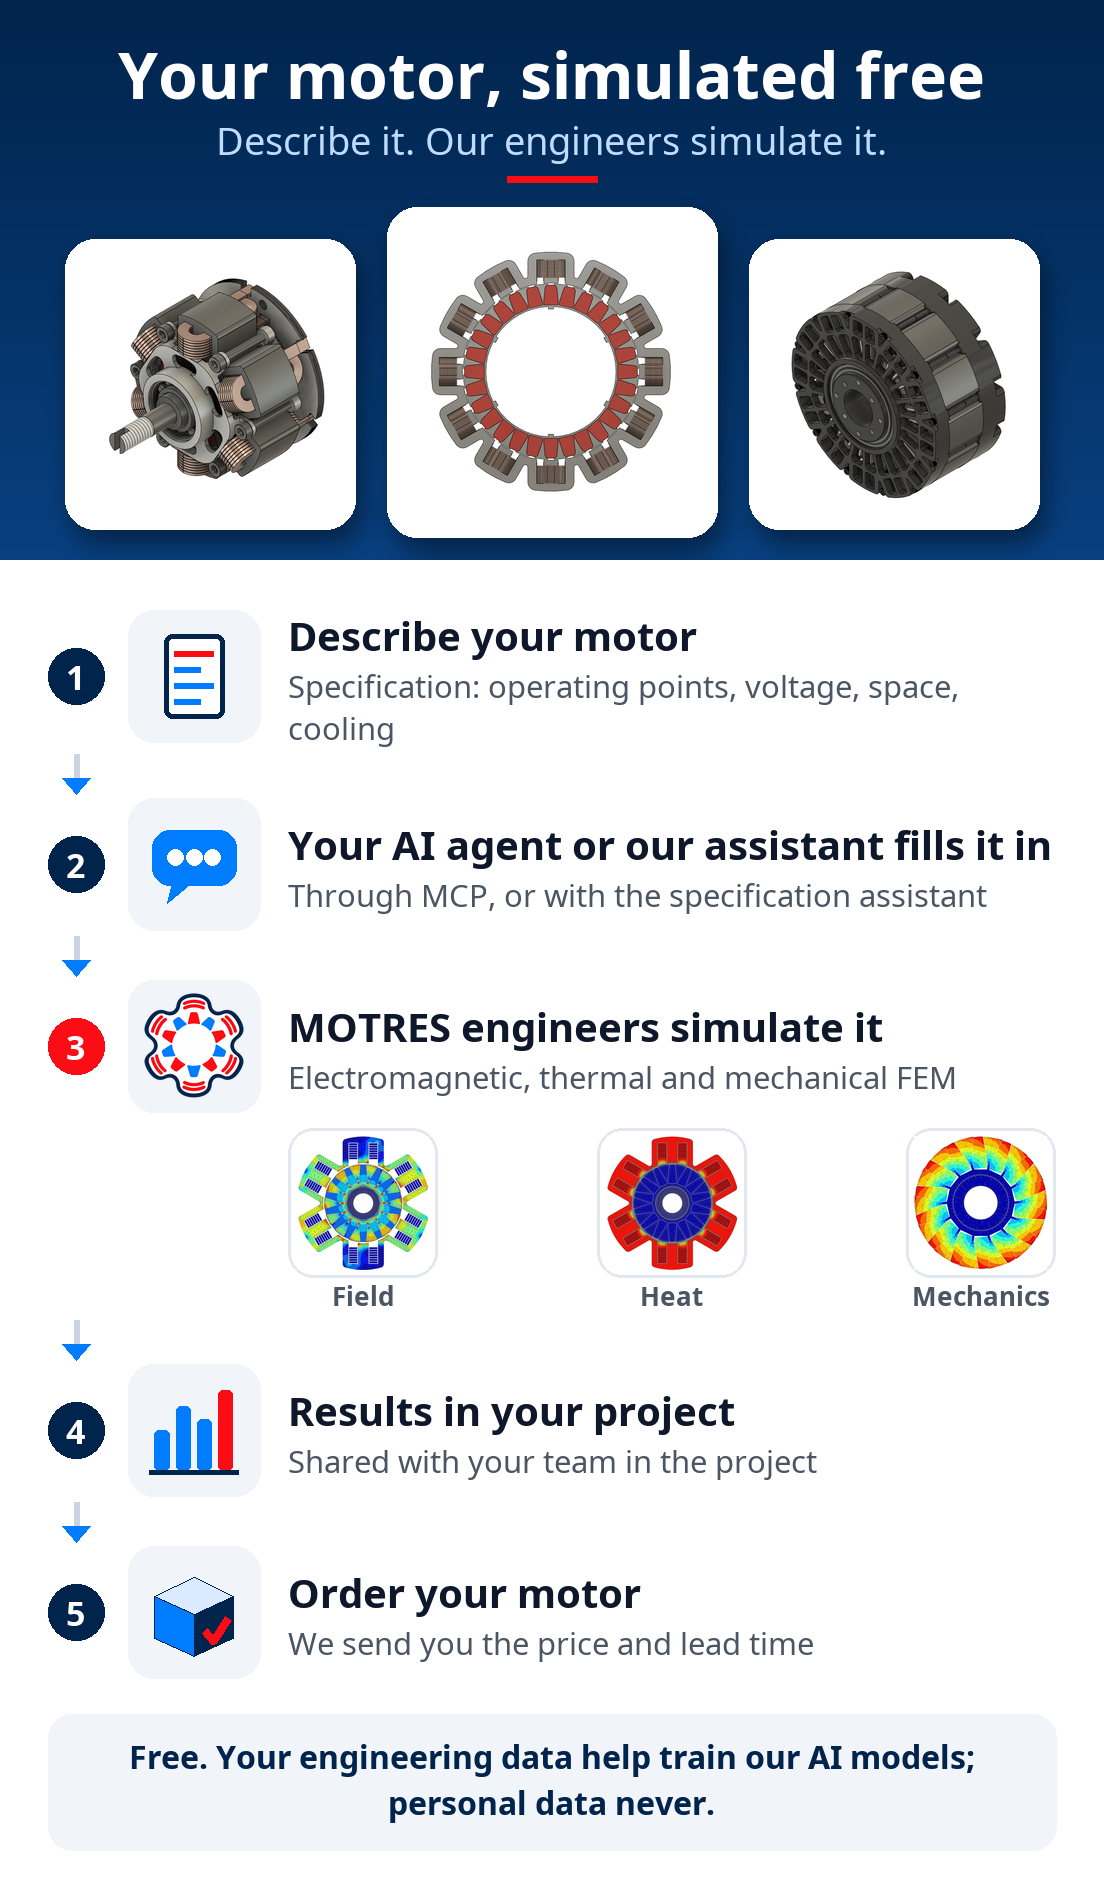
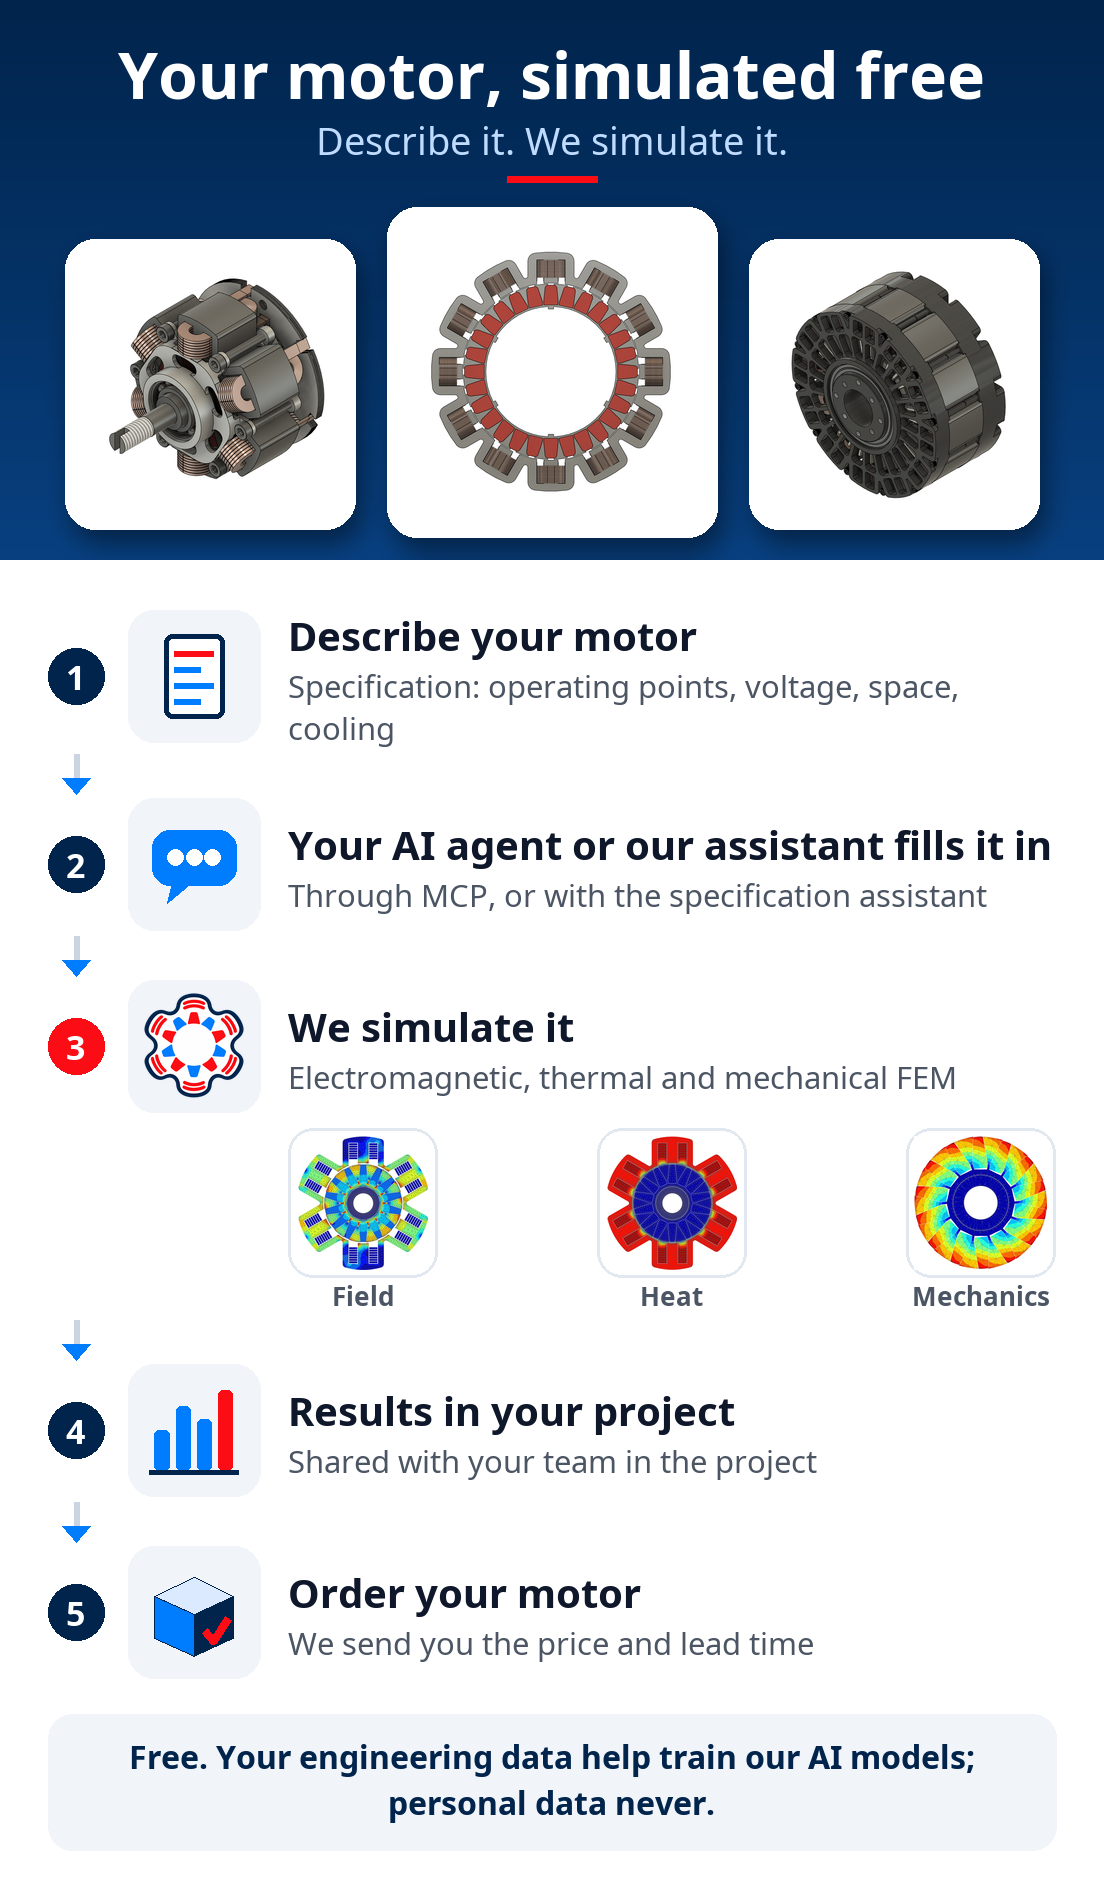
feat(mail): picture says 'We simulate it' instead of naming the engineers (owner 2026-11-11)

Changed region(s): [[0.1848, 0.0622, 0.8007, 0.0933], [0.2464, 0.5285, 0.8007, 0.5595]]

diff --git a/scripts/make_mail_flow_image.py b/scripts/make_mail_flow_image.py
@@ -39,11 +39,11 @@ FONTS = {
 TEXT = {
     "en": {
         "title": "Your motor, simulated free",
-        "kicker": "Describe it. Our engineers simulate it.",
+        "kicker": "Describe it. We simulate it.",
         "steps": [
             ("Describe your motor", "Specification: operating points, voltage, space, cooling"),
             ("Your AI agent or our assistant fills it in", "Through MCP, or with the specification assistant"),
-            ("MOTRES engineers simulate it", "Electromagnetic, thermal and mechanical FEM"),
+            ("We simulate it", "Electromagnetic, thermal and mechanical FEM"),
             ("Results in your project", "Shared with your team in the project"),
             ("Order your motor", "We send you the price and lead time"),
         ],
@@ -52,11 +52,11 @@ TEXT = {
     },
     "zh-CN": {
         "title": "免费为您仿真电机",
-        "kicker": "您来描述，我们的工程师来仿真。",
+        "kicker": "您来描述，我们来仿真。",
         "steps": [
             ("描述您的电机", "规格书：工况点、电压、安装空间、冷却方式"),
             ("人工智能代理或助手协助填写", "通过 MCP，或使用规格书助手"),
-            ("MOTRES 工程师进行仿真", "电磁、热和机械有限元分析"),
+            ("我们进行仿真", "电磁、热和机械有限元分析"),
             ("结果在您的项目中", "在项目中与您的团队共享"),
             ("订购电机", "我们为您提供价格和交货期"),
         ],

diff --git a/config/mail/free_simulation_launch_2026-11.zh-CN.md b/config/mail/free_simulation_launch_2026-11.zh-CN.md
@@ -4,7 +4,7 @@ Subject: AeroStator：描述您的电机，我们免费为您仿真
 
 现在，您可以在 AeroStator 上通过规格书描述您所需的电机或发电机，MOTRES 工程师将为您免费进行仿真：永磁电机的电磁、热和机械有限元分析。
 
-![免费为您仿真电机。1. 在规格书中描述您的电机。2. 人工智能代理或助手协助填写。3. MOTRES 工程师进行仿真：电磁、热和机械有限元分析。4. 结果在您的项目中。5. 订购电机：我们为您提供价格和交货期。免费；您的工程数据用于帮助训练我们的人工智能模型，绝不使用个人数据。](image:free_simulation_flow)
+![免费为您仿真电机。1. 在规格书中描述您的电机。2. 人工智能代理或助手协助填写。3. 我们进行仿真：电磁、热和机械有限元分析。4. 结果在您的项目中。5. 订购电机：我们为您提供价格和交货期。免费；您的工程数据用于帮助训练我们的人工智能模型，绝不使用个人数据。](image:free_simulation_flow)
 
 ## 使用方式
 

diff --git a/config/mail/free_simulation_launch_2026-11.en.md b/config/mail/free_simulation_launch_2026-11.en.md
@@ -4,7 +4,7 @@ Hello,
 
 On AeroStator you can now describe the motor or generator you need in a specification, and MOTRES engineers simulate it for you, free of charge: electromagnetic, thermal and mechanical FEM analysis of permanent-magnet machines.
 
-![Your motor, simulated free. 1. Describe your motor in a specification. 2. Your AI agent or our assistant fills it in. 3. MOTRES engineers simulate it: electromagnetic, thermal and mechanical FEM. 4. Results in your project. 5. Order your motor: we send you the price and lead time. Free; your engineering data help train our AI models, personal data never.](image:free_simulation_flow)
+![Your motor, simulated free. 1. Describe your motor in a specification. 2. Your AI agent or our assistant fills it in. 3. We simulate it: electromagnetic, thermal and mechanical FEM. 4. Results in your project. 5. Order your motor: we send you the price and lead time. Free; your engineering data help train our AI models, personal data never.](image:free_simulation_flow)
 
 ## How it works
 
